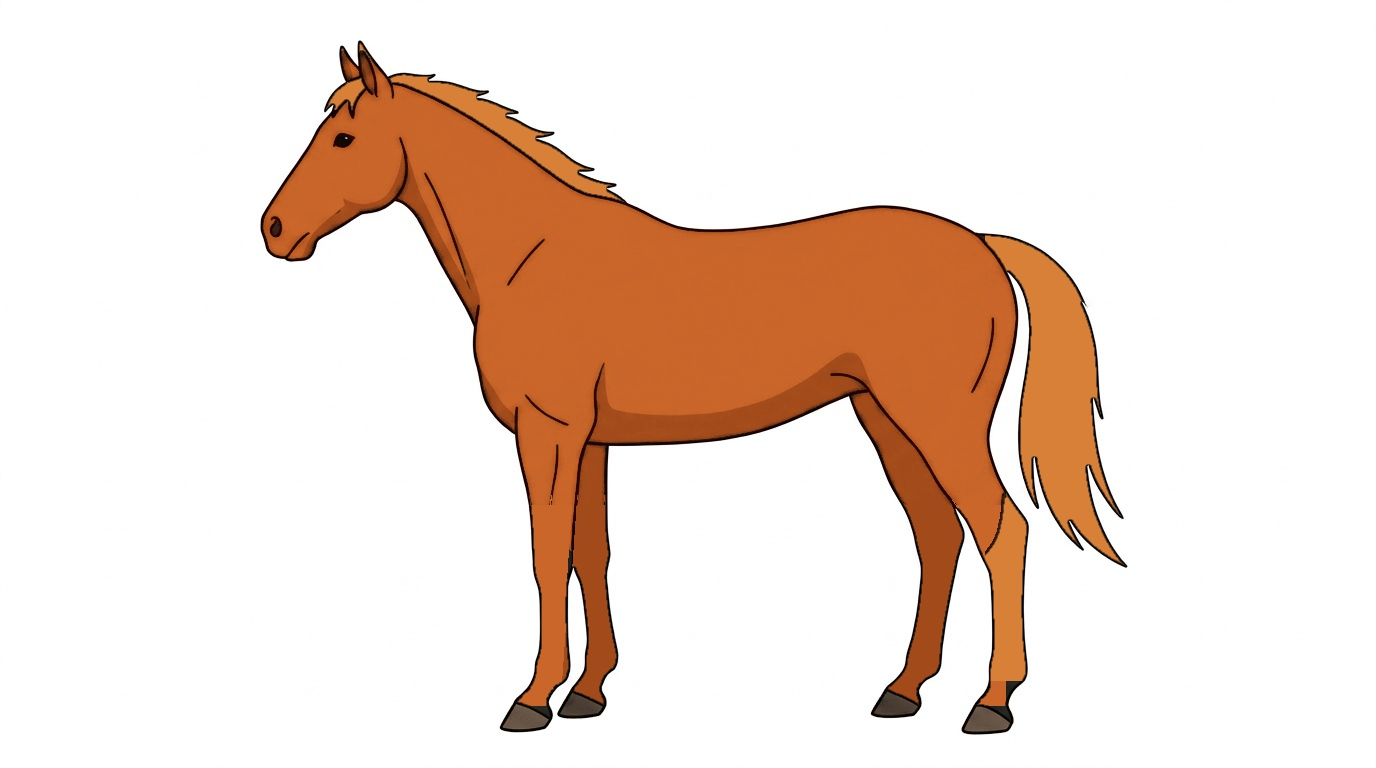
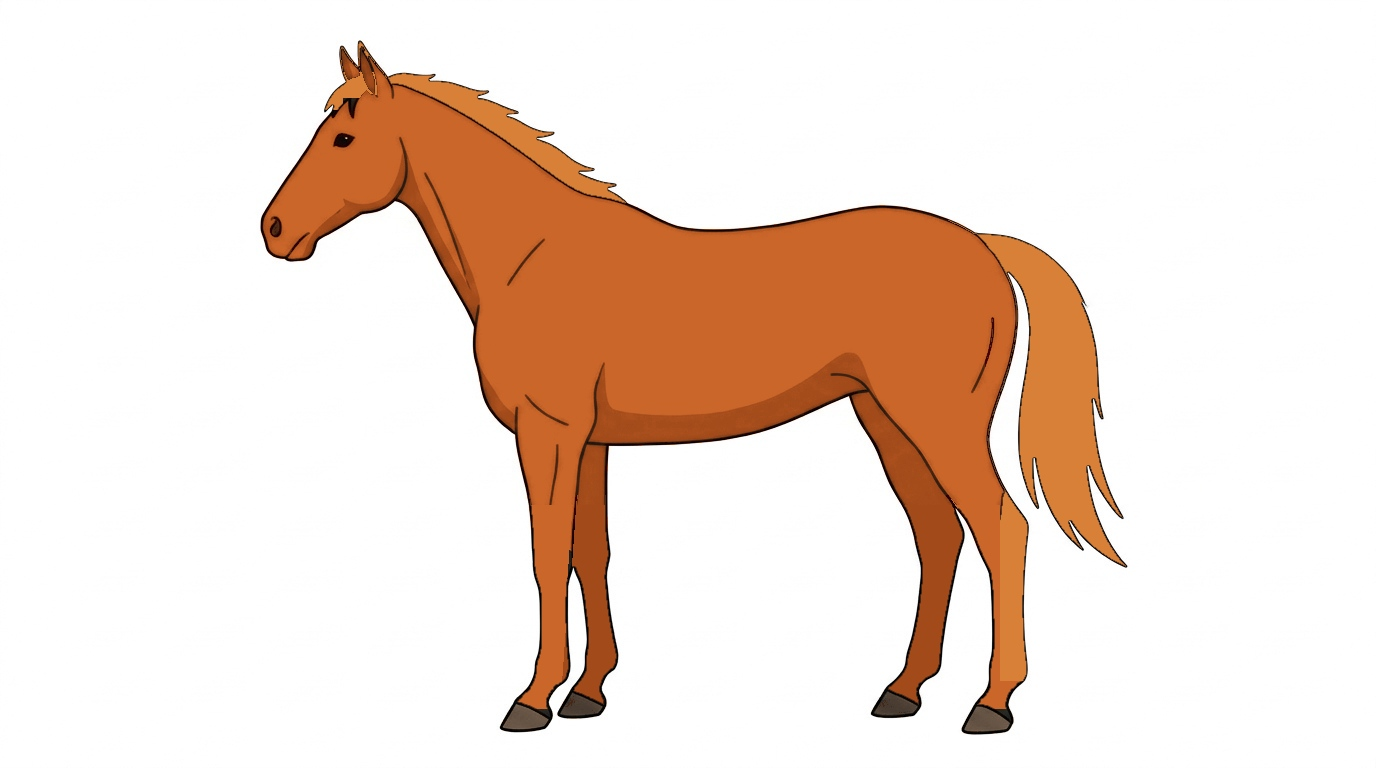
feat(assets): add liver_chestnut (栃栗毛) 6-scene suite and refine mane/tail bounds

diff --git a/docs/specs/horse-visual-assets.md b/docs/specs/horse-visual-assets.md
@@ -98,5 +98,5 @@
 | **4** | **芦毛** | `grey` | **8%** | `#C6CCD4`<br>`(198, 204, 212)` | `#9AA2AC`<br>`(154, 162, 172)` | `#606872`<br>`(96, 104, 114)` | **あり（濃灰グラデ）**<br>`#5C626C` | なし | `#605E5C`<br>`(96, 94, 92)` | **全6シーン完成** |
 | **5** | **青鹿毛** | `seal_brown` | **6%** | `#2A201C`<br>`(42, 32, 28)` | `#1C1412`<br>`(28, 20, 18)` | `#141312`<br>`(20, 19, 18)` | **あり**<br>`#141312` | **鼻先・目元のみ微かな褐色**<br>`#69321A` `(105, 50, 26)` | `#443C38`<br>`(68, 60, 56)` | **全6シーン完成** |
 | **6** | **青毛** | `black` | **4%** | `#2C2F35`<br>`(44, 47, 53)` | `#1B1D22`<br>`(27, 29, 34)` | `#141518`<br>`(20, 21, 24)` | **あり**<br>`#141518` | **なし（全身純粋な漆黒）** | `#3E3C3E`<br>`(62, 60, 62)` | **全6シーン完成** |
-| **7** | **栃栗毛** | `liver_chestnut` | **3%** | `#74341E`<br>`(116, 52, 30)` | `#542212`<br>`(84, 34, 18)` | `#602A16`<br>`(96, 42, 22)` | **なし**<br>（被毛と同色） | なし | `#58483E`<br>`(88, 72, 62)` | ①完成 / ②〜⑤予定 |
+| **7** | **栃栗毛** | `liver_chestnut` | **3%** | `#74341E`<br>`(116, 52, 30)` | `#542212`<br>`(84, 34, 18)` | `#602A16`<br>`(96, 42, 22)` | **なし**<br>（被毛と同色） | なし | `#58483E`<br>`(88, 72, 62)` | **全6シーン完成** |
 | **8** | **白毛** | `white` | **1%** | `#F7F9FC`<br>`(247, 249, 252)` | `#DAE1EA`<br>`(218, 225, 234)` | `#F2F5FA`<br>`(242, 245, 250)` | **なし**<br>（純白被毛） | **鼻先に淡い桜色（ピンク肌）**<br>`#EEB6B0` `(238, 182, 176)` | `#C4B49E`<br>`(196, 180, 158)` | ①完成 / ②〜⑤予定 |
